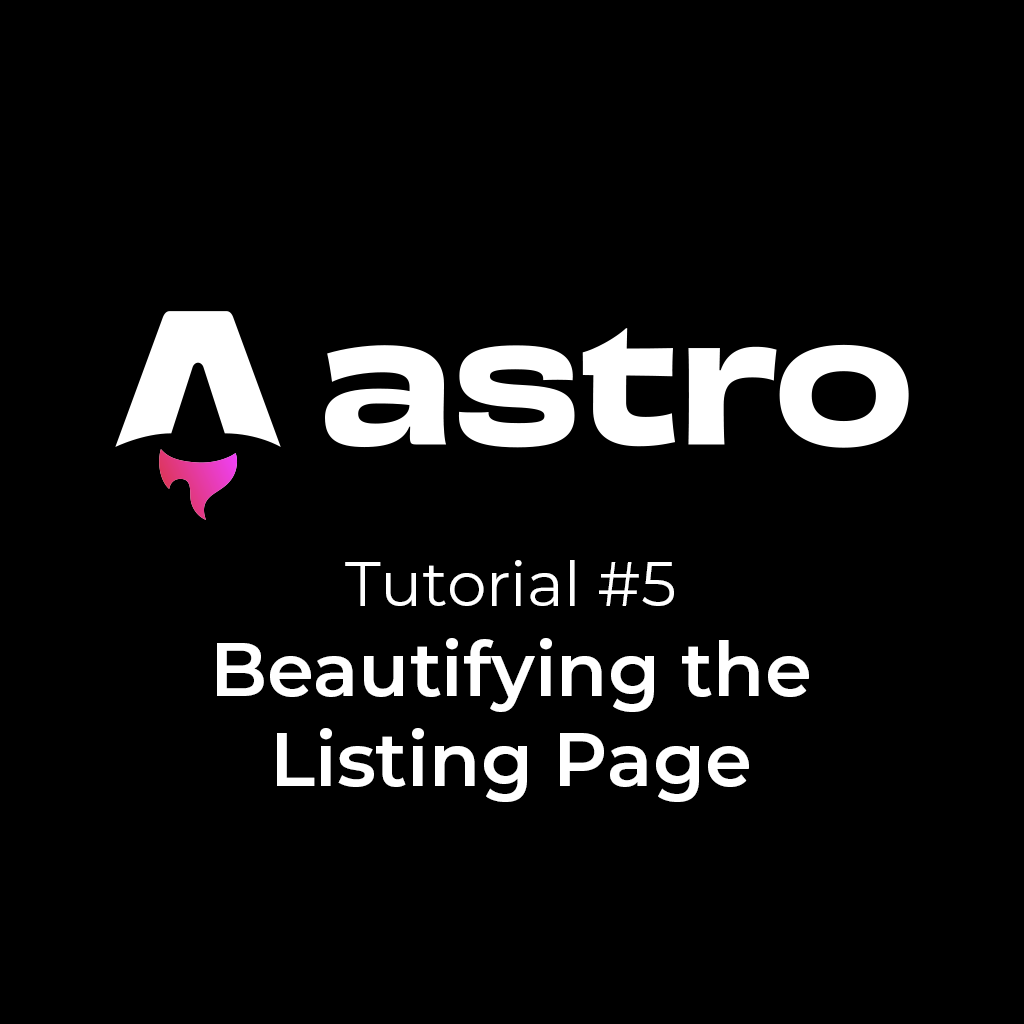
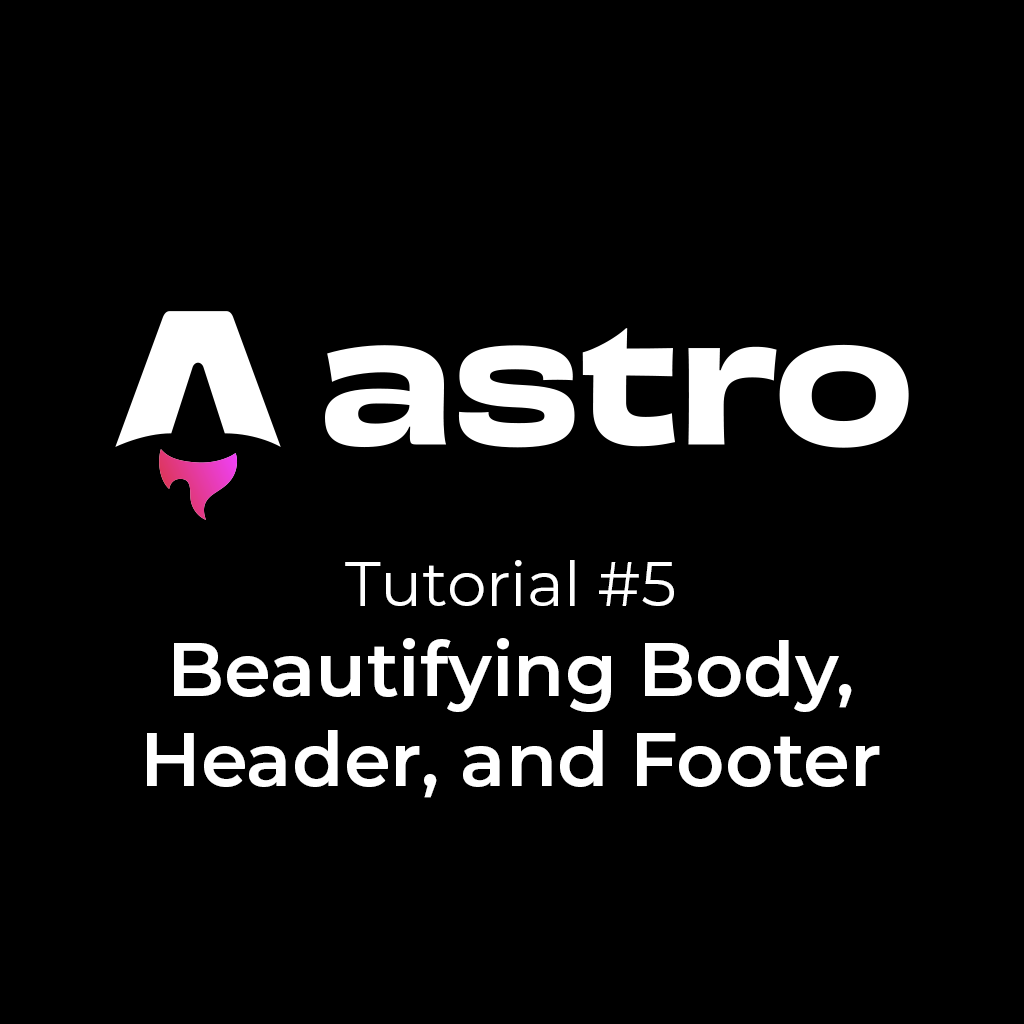
Done with post 6 of mastering astro

Changed region(s): [[0.125, 0.625, 0.875, 0.7812]]

diff --git a/src/pages/posts/mastering-astro-05.md b/src/pages/posts/mastering-astro-05.md
@@ -1,14 +1,14 @@
 ---
 layout: "./../../layouts/post.layout.astro"
-title: "Mastering Astro #5: Beautifying the Listing Page"
+title: "Mastering Astro #5: Beautifying Body, Header & Footer"
 date: "2024-10-01 17:00:00"
-description: "Elevate your Astro project's aesthetics with this styling tutorial. Dive into spacing utilities and color setup using CSS custom properties. Follow the step-by-step guide to enhance your project's visual appeal effortlessly."
-keywords: "Mastering Astro, Astro Tutorial, Styling Essentials, CSS Setup, Spacing Utilities, Color Setup, CSS Custom Properties, Web Development, Tutorial Series, Visual Appeal"
+description: "Dive into the fun part of your Astro project by beautifying the listing page. Create a grid layout for mobile and desktop views, and follow a step-by-step guide to code the body, header, and footer styles. Learn how to enhance your layout and make code reusable for a more efficient development process."
+keywords: "Mastering Astro, Astro Tutorial, Web Development, Styling Essentials, CSS, Header Styling, Footer Styling, Responsive Design, Grid Layout"
 images:
   [
     {
       url: "mastering-astro-0005.png",
-      alt: "Mastering Astro #5: Beautifying the Listing Page",
+      alt: "Mastering Astro #5: Beautifying Body, Header & Footer",
     },
   ]
 ---
@@ -45,7 +45,7 @@ body {
   font-size: var(--step-0);
   line-height: 1.5;
   color: black;
-  background-color: var(--clr-yellow);
+  background-color: var(--clr-secondary);
 }
 ```
 
@@ -53,7 +53,7 @@ Let's also make the links look nicer.
 
 ```css
 a {
-  color: var(--clr-green);
+  color: var(--clr-primary);
   text-decoration: none;
 }
 
@@ -132,40 +132,94 @@ Our strategy for tackling this is header, footer, main, and card.
 
 ### 1. Header
 
-We'll use Flexbox to make the layout of our header. This allows us to put the title and home link on the same line.
+We'll use Flexbox to make the layout of our header.
+
+Notice how we're using the CSS properties we declared earlier? The allows us to reuse our code. And if we want to change the theme, we just have to modify the custom properties in the `root` block.
 
 ```css
 .primary-header {
   padding: var(--space-s);
   display: flex;
   align-items: center;
+  gap: var(--space-s);
   justify-content: space-between;
-  background-color: var(--clr-orange);
+  background-color: var(--clr-accent-2);
 }
 
 .primary-header__heading {
   font-size: var(--step-3);
   font-weight: 700;
-  color: var(--clr-green);
+  color: var(--clr-primary);
 }
 ```
 
+Go to your web browser. You should see the heading and "Home" link side by side.
+
 #### Advanced: Keep Header at the Top of the Page (Optional)
 
-Update the code as such
+If you are up for the challenge, let's try to make the header stick to the top.
+
+Update the code as such:
 
 ```css
 body {
-  ...
+  /* ... truncated code */
   position: relative;
 }
 
-...
+/* ... truncated code */
 
 .primary-header {
-  ...
+  /* ... truncated code */
   position: sticky;
   top: 0;
   z-index: 1;
 }
 ```
+
+Go to your web browser. You should see the header staying at the top when you scroll down.
+
+#### Advanced: Make Code Reusable (Optional)
+
+Notice that we're using the same CSS property for the padding and gap for the `.primary-header` block.
+
+Let's make it so we don't repeat ourself.
+
+```css
+.primary-header {
+  --_primary-header-space: var(--space-s);
+
+  padding: var(--_primary-header-space);
+  display: flex;
+  align-items: center;
+  gap: var(--_primary-header-space);
+  justify-content: space-between;
+  background-color: var(--clr-accent-2);
+  position: sticky;
+  top: 0;
+}
+```
+
+This doesn't do anything visually, but improves our code style.
+
+### 2. Footer
+
+Next, let's style the footer.
+
+These are my styles:
+
+```css
+.primary-footer {
+  padding: var(--space-s);
+}
+
+.primary-footer__content {
+  text-align: center;
+  font-size: var(--step--1);
+  font-style: italic;
+}
+```
+
+Go to your browser to see its effect.
+
+This concludes this tutorial. We will style the main section in the next tutorial.

diff --git a/src/pages/posts/mastering-astro-04.md b/src/pages/posts/mastering-astro-04.md
@@ -100,10 +100,10 @@ Click on the `rgb(xxx, xxx, xxx)` to copy the colour code. And paste it into the
   --space-2xl: clamp(4.5rem, 4.3261rem + 0.8696vw, 5rem);
   --space-3xl: clamp(6.75rem, 6.4891rem + 1.3043vw, 7.5rem);
 
-  --clr-yellow: rgb(250, 239, 155);
-  --clr-orange: rgb(246, 215, 118);
-  --clr-teal: rgb(109, 164, 170);
-  --clr-green: rgb(100, 125, 135);
+  --clr-primary: rgb(100, 125, 135);
+  --clr-secondary: rgb(250, 239, 155);
+  --clr-accent-1: rgb(109, 164, 170);
+  --clr-accent-2: rgb(246, 215, 118);
 }
 ```
 
@@ -149,10 +149,10 @@ Your code should look like this:
   --space-2xl: clamp(4.5rem, 4.3261rem + 0.8696vw, 5rem);
   --space-3xl: clamp(6.75rem, 6.4891rem + 1.3043vw, 7.5rem);
 
-  --clr-yellow: hsl(53, 90%, 79%);
-  --clr-orange: hsl(45, 88%, 71%);
-  --clr-teal: hsl(186, 26%, 55%);
-  --clr-green: hsl(197, 15%, 46%);
+  --clr-primary: hsl(197, 15%, 46%);
+  --clr-secondary: hsl(53, 90%, 79%);
+  --clr-accent-1: hsl(186, 26%, 55%);
+  --clr-accent-2: hsl(45, 88%, 71%);
 }
 ```
 
@@ -165,7 +165,7 @@ Naming convention:
 - So 9x% - 100, 8x% - 200, etc.
 - So 100 is the lightest, and 1000 is the darkest tint.
 
-Using the yellow as an example, your code should look like this:
+Using the primary colour as an example, your code should look like this:
 
 ```css
 :root {
@@ -188,20 +188,20 @@ Using the yellow as an example, your code should look like this:
   --space-2xl: clamp(4.5rem, 4.3261rem + 0.8696vw, 5rem);
   --space-3xl: clamp(6.75rem, 6.4891rem + 1.3043vw, 7.5rem);
 
-  --clr-yellow-100: hsl(53, 90%, 99%);
-  --clr-yellow-200: hsl(53, 90%, 89%);
-  --clr-yellow-300: hsl(53, 90%, 79%);
-  --clr-yellow-400: hsl(53, 90%, 69%);
-  --clr-yellow-500: hsl(53, 90%, 59%);
-  --clr-yellow-600: hsl(53, 90%, 49%);
-  --clr-yellow-700: hsl(53, 90%, 39%);
-  --clr-yellow-800: hsl(53, 90%, 29%);
-  --clr-yellow-900: hsl(53, 90%, 19%);
-  --clr-yellow-1000: hsl(53, 90%, 9%);
+  --clr-primary-100: hsl(197, 15%, 96%);
+  --clr-primary-200: hsl(197, 15%, 86%);
+  --clr-primary-300: hsl(197, 15%, 76%);
+  --clr-primary-400: hsl(197, 15%, 66%);
+  --clr-primary-500: hsl(197, 15%, 56%);
+  --clr-primary-600: hsl(197, 15%, 46%);
+  --clr-primary-700: hsl(197, 15%, 36%);
+  --clr-primary-800: hsl(197, 15%, 26%);
+  --clr-primary-900: hsl(197, 15%, 16%);
+  --clr-primary-1000: hsl(197, 15%, 6%);
 
-  --clr-orange: hsl(45, 88%, 71%);
-  --clr-teal: hsl(186, 26%, 55%);
-  --clr-green: hsl(197, 15%, 46%);
+  --clr-secondary: hsl(53, 90%, 79%);
+  --clr-accent-1: hsl(186, 26%, 55%);
+  --clr-accent-2: hsl(45, 88%, 71%);
 }
 ```
 

diff --git a/src/pages/posts/mastering-astro-06.md b/src/pages/posts/mastering-astro-06.md
@@ -1,0 +1,99 @@
+---
+layout: "./../../layouts/post.layout.astro"
+title: "Mastering Astro #6: Style Listing Content"
+date: "2024-10-01 20:00:00"
+description: "Continue your journey in mastering Astro by enhancing the styling of your listing page. Learn how to create a responsive grid layout for your cards, style the card elements, and make your images look visually appealing. Explore techniques to improve code organization and prepare for the next step—splitting your HTML code into reusable components."
+keywords: "Mastering Astro, Astro Tutorial, Web Development, Styling, Grid Layout, Responsive Design, CSS, Card Styling, Image Grid, Code Organization, HTML Components"
+images:
+  [
+    {
+      url: "mastering-astro-0006.png",
+      alt: "Mastering Astro #6: Style Listing Content",
+    },
+  ]
+---
+
+Let's continue styling the listing page.
+
+First, add the header height and footer to the `root` block as custom properties.
+
+```css
+--primary-header-height: 8rem;
+--primary-footer-height: 5.5rem;
+```
+
+We'll use them like this to make the main span the whole website length.
+
+```css
+.main-primary {
+  --_main-primary-space: var(--space-m);
+
+  display: grid;
+  grid-template-columns: repeat(3, minmax(300px, 1fr));
+  gap: var(--_main-primary-space);
+  padding: var(--_main-primary-space);
+  min-height: calc(
+    100vh - var(--primary-header-height) - var(--primary-footer-height)
+  );
+}
+```
+
+This will put our cards in a grid layout.
+
+Next, let's work on the _card_ class.
+
+```css
+.card {
+  padding: var(--space-s);
+  background-color: var(--clr-accent-2);
+  border-radius: 0.5rem;
+  box-shadow: 0 0 0.5rem rgba(0, 0, 0, 0.25);
+}
+
+a.card {
+  color: black;
+}
+
+a.card:hover {
+  text-decoration: none;
+}
+```
+
+This is the code for the image grid:
+
+```css
+.card__images {
+  --_card-images-space: 0.1em;
+
+  display: grid;
+  grid-template-columns: repeat(2, 1fr);
+  grid-template-rows: repeat(2, 1fr);
+  gap: var(--_card-images-space);
+  padding: var(--_card-images-space);
+  background-color: white;
+}
+
+img {
+  display: block;
+  max-width: 100%;
+}
+```
+
+Here are the styles of the card content:
+
+```css
+.flow > * + * {
+  margin-top: var(--space-s);
+}
+
+.card__heading {
+  font-size: var(--step-2);
+  font-weight: 700;
+}
+```
+
+The end result should look like this:
+
+![End Result](/screenshots/posts/mastering-astro-0006-a.png)
+
+The following tutorial will split our `HTML` code into reusable components.

diff --git a/src/pages/posts/mastering-astro-03.md b/src/pages/posts/mastering-astro-03.md
@@ -131,7 +131,9 @@ Replace the `body` with the following code. Change `apple-pie-xxxx.jpg` to your 
   </a>
 </main>
 
-<footer>
-  <p>My Favourite Food &copy; Davina Leong, 2024</p>
+<footer class="primary-footer">
+  <p class="primary-footer__content">
+    My Favourite Food &copy; Davina Leong, 2024
+  </p>
 </footer>
 ```
